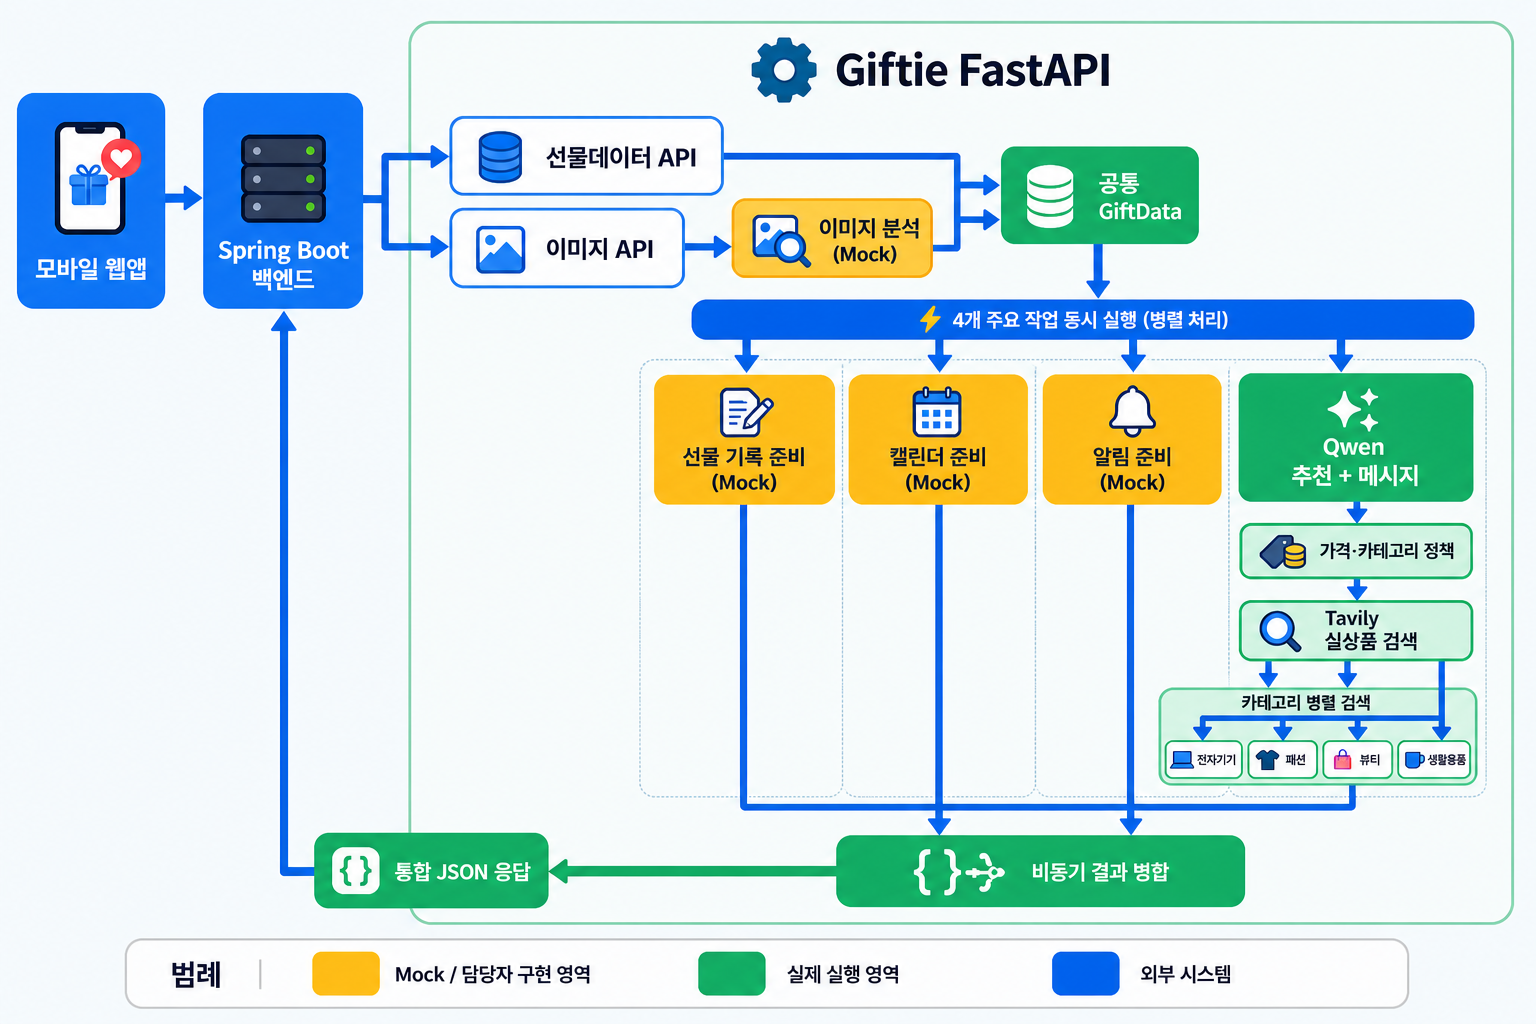
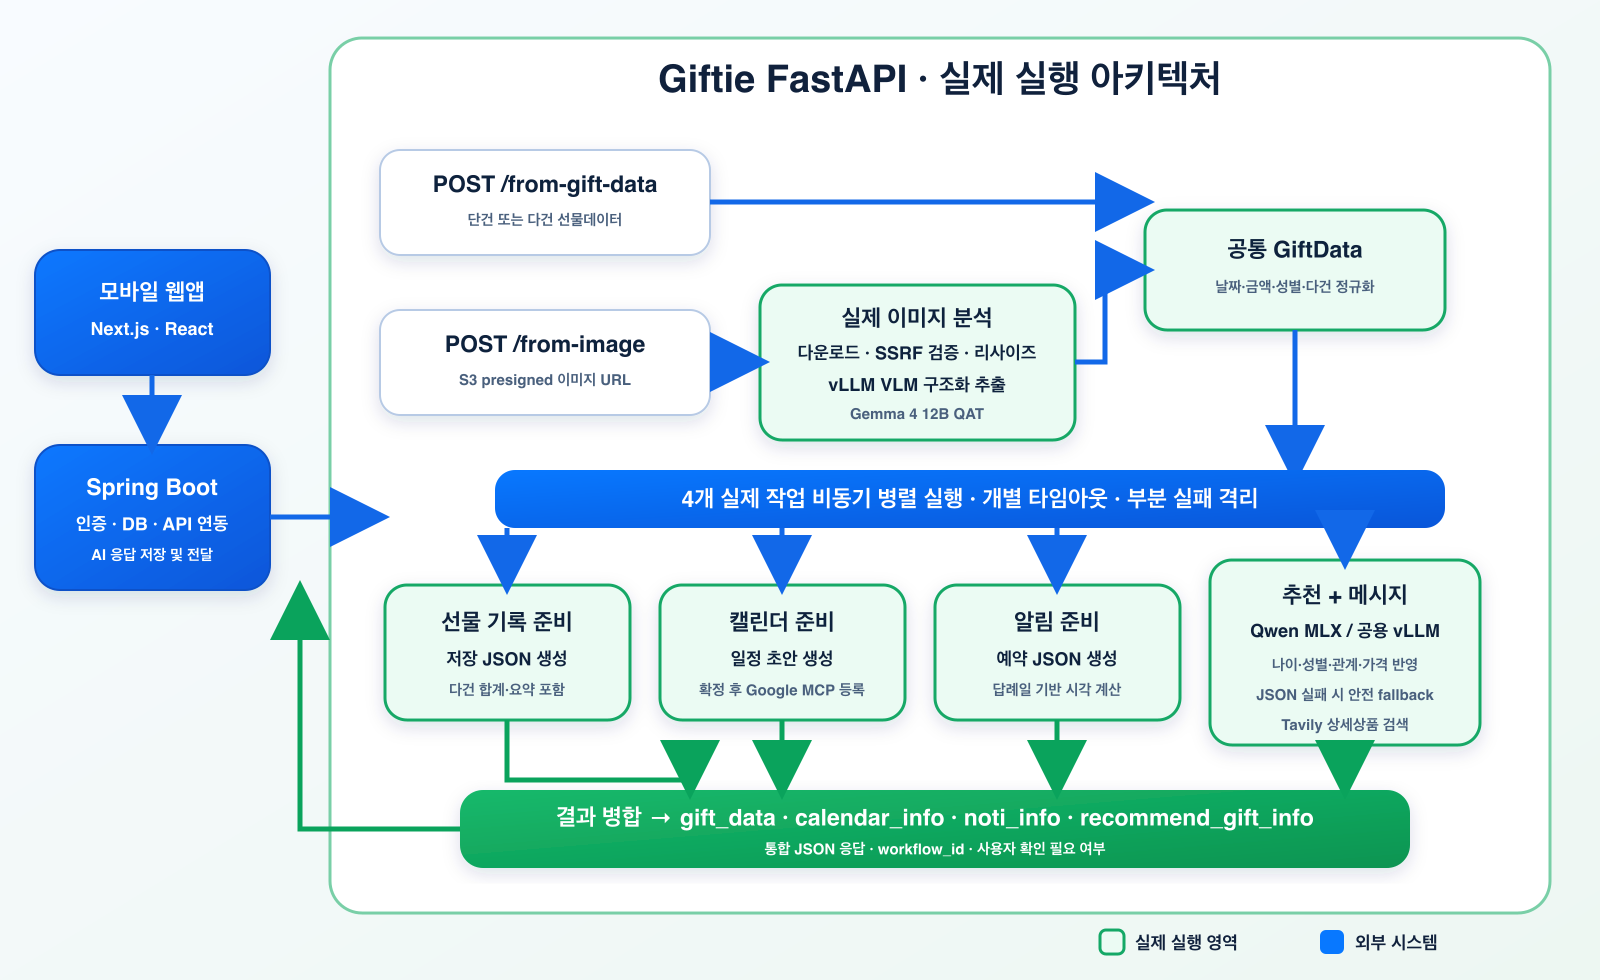
사진 변경

diff --git a/README.md b/README.md
@@ -85,7 +85,6 @@ flowchart LR
 
     Merger -->|통합 JSON| Backend
 
-    classDef mock fill:#fff3cd,stroke:#d39e00,color:#664d03;
     classDef actual fill:#d1e7dd,stroke:#198754,color:#0f5132;
     classDef external fill:#cfe2ff,stroke:#0d6efd,color:#084298;
 
@@ -275,8 +274,6 @@ MODEL_BACKEND=mock
 ```
 
 ```bash
-python3 -m venv .venv
-source .venv/bin/activate
 python3.12 -m venv .venv
 source .venv/bin/activate
 pip install -r requirements-dev.txt
